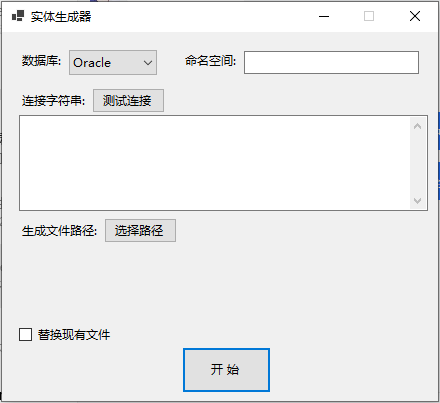
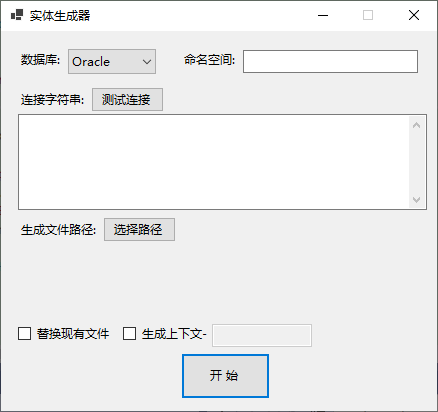
新增是否添加上下文功能

Changed region(s): [[0.0, 0.0, 1.0, 1.0], [0.4155, 0.1191, 0.5342, 0.1787], [0.6826, 0.7742, 0.7123, 0.804]]

diff --git a/CreateEntity/MainForm.cs b/CreateEntity/MainForm.cs
@@ -25,27 +25,39 @@ namespace CreateEntity
             Helper.nameSpace = NameSpace.Text.Trim();
             Helper.path = txtPath.Text.Trim();
             Helper.conStr = ConStr.Text.Trim();
+            Helper.DbContextName = textDbContext.Text.Trim();
 
+            #region 验证
             if (string.IsNullOrEmpty(Helper.nameSpace))
             {
-                MessageBox.Show("请填写命名空间", "实体生成器", MessageBoxButtons.OK, MessageBoxIcon.Information);
+                MessageBox.Show("请填写命名空间", Helper.lable, MessageBoxButtons.OK, MessageBoxIcon.Information);
                 return;
             }
             if (string.IsNullOrEmpty(Helper.path))
             {
-                MessageBox.Show("请填写连接字符串", "实体生成器", MessageBoxButtons.OK, MessageBoxIcon.Information);
+                MessageBox.Show("请填写连接字符串", Helper.lable, MessageBoxButtons.OK, MessageBoxIcon.Information);
                 return;
             }
             if (string.IsNullOrEmpty(Helper.conStr))
             {
-                MessageBox.Show("请选择生成路径", "实体生成器", MessageBoxButtons.OK, MessageBoxIcon.Information);
+                MessageBox.Show("请选择生成路径", Helper.lable, MessageBoxButtons.OK, MessageBoxIcon.Information);
                 return;
             }
-
+            if (string.IsNullOrEmpty(Helper.conStr))
+            {
+                MessageBox.Show("请选择生成路径", Helper.lable, MessageBoxButtons.OK, MessageBoxIcon.Information);
+                return;
+            }
+            if (Helper.IsDbContext && string.IsNullOrEmpty(Helper.DbContextName))
+            {
+                MessageBox.Show("请输入上下文名称", Helper.lable, MessageBoxButtons.OK, MessageBoxIcon.Information);
+                return;
+            }
             if (!testCon())
             {
                 return;
             }
+            #endregion
 
             //隐藏自己
             Hide();
@@ -79,7 +91,7 @@ namespace CreateEntity
             catch (Exception e)
             {
                 ok = false;
-                MessageBox.Show("连接超时，" + e.Message, "实体生成器", MessageBoxButtons.OK, MessageBoxIcon.Error);
+                MessageBox.Show("连接超时，" + e.Message, Helper.lable, MessageBoxButtons.OK, MessageBoxIcon.Error);
             }
             return ok;
         }
@@ -89,7 +101,7 @@ namespace CreateEntity
             Helper.conStr = ConStr.Text.Trim();
             if (testCon())
             {
-                MessageBox.Show("测试连接成功", "实体生成器", MessageBoxButtons.OK, MessageBoxIcon.Information);
+                MessageBox.Show("测试连接成功", Helper.lable, MessageBoxButtons.OK, MessageBoxIcon.Information);
             }
         }
 
@@ -108,6 +120,12 @@ namespace CreateEntity
         private void checkReplace_CheckedChanged(object sender, EventArgs e)
         {
             Helper.IsReplace = checkReplace.Checked;
+        }
+
+        private void checkDbContext_CheckedChanged(object sender, EventArgs e)
+        {
+            Helper.IsDbContext = checkDbContext.Checked;
+            textDbContext.Enabled= checkDbContext.Checked;
         }
     }
 }

diff --git a/CreateEntity/MainForm.Designer.cs b/CreateEntity/MainForm.Designer.cs
@@ -41,11 +41,13 @@ namespace CreateEntity
             this.lable4 = new System.Windows.Forms.Label();
             this.NameSpace = new System.Windows.Forms.TextBox();
             this.checkReplace = new System.Windows.Forms.CheckBox();
+            this.checkDbContext = new System.Windows.Forms.CheckBox();
+            this.textDbContext = new System.Windows.Forms.TextBox();
             this.SuspendLayout();
             // 
             // button1
             // 
-            this.button1.Location = new System.Drawing.Point(180, 315);
+            this.button1.Location = new System.Drawing.Point(180, 322);
             this.button1.Margin = new System.Windows.Forms.Padding(2, 3, 2, 3);
             this.button1.Name = "button1";
             this.button1.Size = new System.Drawing.Size(89, 46);
@@ -167,11 +169,32 @@ namespace CreateEntity
             this.checkReplace.UseVisualStyleBackColor = true;
             this.checkReplace.CheckedChanged += new System.EventHandler(this.checkReplace_CheckedChanged);
             // 
+            // checkDbContext
+            // 
+            this.checkDbContext.AutoSize = true;
+            this.checkDbContext.Location = new System.Drawing.Point(122, 293);
+            this.checkDbContext.Name = "checkDbContext";
+            this.checkDbContext.Size = new System.Drawing.Size(92, 21);
+            this.checkDbContext.TabIndex = 14;
+            this.checkDbContext.Text = "生成上下文-";
+            this.checkDbContext.UseVisualStyleBackColor = true;
+            this.checkDbContext.CheckedChanged += new System.EventHandler(this.checkDbContext_CheckedChanged);
+            // 
+            // textDbContext
+            // 
+            this.textDbContext.Enabled = false;
+            this.textDbContext.Location = new System.Drawing.Point(211, 293);
+            this.textDbContext.Name = "textDbContext";
+            this.textDbContext.Size = new System.Drawing.Size(100, 23);
+            this.textDbContext.TabIndex = 15;
+            // 
             // MainForm
             // 
             this.AutoScaleDimensions = new System.Drawing.SizeF(7F, 17F);
             this.AutoScaleMode = System.Windows.Forms.AutoScaleMode.Font;
-            this.ClientSize = new System.Drawing.Size(436, 369);
+            this.ClientSize = new System.Drawing.Size(436, 380);
+            this.Controls.Add(this.textDbContext);
+            this.Controls.Add(this.checkDbContext);
             this.Controls.Add(this.checkReplace);
             this.Controls.Add(this.NameSpace);
             this.Controls.Add(this.lable4);
@@ -210,6 +233,8 @@ namespace CreateEntity
         private System.Windows.Forms.Label lable4;
         private System.Windows.Forms.TextBox NameSpace;
         private System.Windows.Forms.CheckBox checkReplace;
+        private System.Windows.Forms.CheckBox checkDbContext;
+        private System.Windows.Forms.TextBox textDbContext;
     }
 }
 

diff --git a/CreateEntity/EntityFactory.cs b/CreateEntity/EntityFactory.cs
@@ -41,7 +41,7 @@ namespace CreateEntity
             using (DbConnection conn = Helper.GetDbConnection())
             {
                 conn.Open();
-                List<Table> tables = db.GetTableAll(conn);
+                List<Table> tables = db.GetTableAll(conn).OrderBy(i => i.CSharpName).ToList();
 
                 pgb.Maximum = tables.Count();
                 for (int i = 0; i < tables.Count(); i++)
@@ -49,14 +49,22 @@ namespace CreateEntity
                     token.ThrowIfCancellationRequested();//申请取消
 
                     if (Helper.IsReplace||
-                        filesName.FindIndex(f => f.Equals(tables[i].CSharpName + ".cs")) == -1)
+                        filesName.FindIndex(f => f==(tables[i].CSharpName + ".cs").ToLower()) == -1)
                     {
-                        List<TableColumn> tableColumn = db.GetTableColumn(conn, tables[i]);
+                        List<TableColumn> tableColumn = db.GetTableColumn(conn, tables[i])
+                                                          .OrderBy(o => o.ConstraintType)
+                                                          .ThenBy(o => o.CSharpName)
+                                                          .ToList();
                         CodeGenerator.BuildEntityClass(tables[i], tableColumn);
                     }
 
                     //汇报进度
                     pgb.Value = i + 1;
+                }
+                //生成上下文
+                if (Helper.IsDbContext)
+                {
+                    CodeGenerator.BuildEFCoreDbContext(tables);
                 }
             }
         }
@@ -76,7 +84,7 @@ namespace CreateEntity
                 FileInfo[] files = infos.GetFiles();
                 foreach(var file in files)
                 {
-                    filesName.Add(file.Name);
+                    filesName.Add(file.Name.ToLower());
                 }
             }
         }

diff --git a/CreateEntity/CodeGenerator.cs b/CreateEntity/CodeGenerator.cs
@@ -89,10 +89,10 @@ namespace CreateEntity
 
             string content = GetTemplateContext("EntityTemplate.txt");
             
-            content = content.Replace("{ModelsNamespace}", Helper.nameSpace)
-               .Replace("{ModelClassName}", table.CSharpName)
-               .Replace("{DbTableName}", table.Name)
-               .Replace("{ModelProperties}", sb.ToString());
+            content = content.Replace("{Namespace}", Helper.nameSpace)
+               .Replace("{ClassName}", table.CSharpName)
+               .Replace("{TableName}", table.Name)
+               .Replace("{Properties}", sb.ToString());
 
             string path = Helper.path + "\\" + table.CSharpName + ".cs";
             WriteAndSave(path, content);
@@ -107,17 +107,17 @@ namespace CreateEntity
             StringBuilder sb = new StringBuilder();
             foreach(var table in tables)
             {
-                string name = table.CSharpName;
-                sb.AppendLine($"\t\tpublic virtual DbSet<{name}> {name} " + "{ get; set; }");
+                sb.AppendLine($"\t\tpublic virtual DbSet<{table.CSharpName}> {table.CSharpName} " + "{ get; set; }");
             }
 
             string content = GetTemplateContext("EFCoreDbContext.txt");
 
             content = content.Replace("{Namespace}", Helper.nameSpace)
-               .Replace("{ClassName}", "")
+               .Replace("{ClassName}", Helper.DbContextName)
+               .Replace("{ConStr}", $"optionsBuilder.Use{Helper.dbType}(\"{Helper.conStr}\");")
                .Replace("{Tables}", sb.ToString());
 
-            string path = Helper.path + "\\" + "" + ".cs";
+            string path = Helper.path + $"\\{Helper.DbContextName}.cs";
             WriteAndSave(path, content);
         }
 

diff --git a/CreateEntity/Helper.cs b/CreateEntity/Helper.cs
@@ -8,6 +8,7 @@ namespace CreateEntity
 {
     public static class Helper
     {
+        public const string lable = "实体生成器";
         public static DataBaseType dbType;
         public static string nameSpace;
         public static string path;
@@ -16,6 +17,11 @@ namespace CreateEntity
         /// 是否替换现有文件,true替换,false不替换
         /// </summary>
         public static bool IsReplace = false;
+        /// <summary>
+        /// 是否生成上下文,true生成,false不生成
+        /// </summary>
+        public static bool IsDbContext = false;
+        public static string DbContextName;
 
         /// <summary>
         /// 将首字母和带 _ 后第一个字母 转换成大写
@@ -36,9 +42,7 @@ namespace CreateEntity
             }
             else
             {
-                //Oracle命名默认全部大写，与SqlServer不同
-                char[] chr = dbType == DataBaseType.SqlServer? str.ToCharArray()
-                                                              :str.ToLower().ToCharArray();
+                char[] chr = str.ToLower().ToCharArray();
                 if (chr[0] >= 'a' && chr[0] <= 'z')
                 {
                     // 利用ASCII码实现首字母大写

diff --git a/CreateEntity/DataBase/SqlServer.cs b/CreateEntity/DataBase/SqlServer.cs
@@ -55,8 +55,7 @@ namespace CreateEntity.DataBase
                                             left join syscomments e on a.cdefault=e.id
                                             left join sys.extended_properties g on a.id=G.major_id and a.colid=g.minor_id  
                                             left join sys.extended_properties f on d.id=f.major_id and f.minor_id=0
-                                            where d.name='{table.Name}'
-                                            order by 主键 desc", (SqlConnection)conn);
+                                            where d.name='{table.Name}'", (SqlConnection)conn);
             using SqlDataReader reder = com.ExecuteReader();
 
             List<TableColumn> tableColumn = new List<TableColumn>();

diff --git a/CreateEntity/ProgressForm.cs b/CreateEntity/ProgressForm.cs
@@ -31,11 +31,10 @@ namespace CreateEntity
             }
             catch (OperationCanceledException)
             {
-                Close();
             }
             catch (Exception ex)
             {
-                MessageBox.Show(ex.Message, "实体生成器", MessageBoxButtons.OK, MessageBoxIcon.Error);
+                MessageBox.Show(ex.Message, Helper.lable, MessageBoxButtons.OK, MessageBoxIcon.Error);
                 Close();
             }
         }
@@ -44,6 +43,7 @@ namespace CreateEntity
         {
             if (_factory != null)
                 _factory.Cancel();
+            Close();
         }
         private void button2_Click(object sender, EventArgs e)
         {

diff --git a/README.md b/README.md
@@ -3,10 +3,13 @@
 ## 写在前面
 以前公司的orm框架用的是十分冷门的NPoco，而且作为业务驱动型公司，你懂的，新加表，表加字段，是家常便饭，这就非常麻烦，新加个表要在代码里加实体类，加TableMapping，建provider类，在DbContext里建字段，建属性，等等！忍受了2个月，跟老大商量以后，开始把项目升级为.net core，orm用EFCore。  
   
-EFCore本身自带生成实体类功能，教程参考[这里](https://www.cnblogs.com/gaoxiong666/p/15018956.html)。由于生成出来的实体是在Context类OnModelCreating方法里加映射，表多的话代码会巨多，而且实体字段没有注释，我更喜欢用特性约束，且加注释，于是本生成器诞生，是我喜欢的模样。
+EFCore本身自带生成实体类功能，教程参考[这里](https://www.cnblogs.com/gaoxiong666/p/15018956.html)。由于生成出来的实体是在Context类OnModelCreating方法里加映射，表多的话代码会巨多，而且实体字段没有注释，DbSet变量名总是在后面加s复数形式，我更喜欢用特性约束，且加注释，于是本生成器诞生，是我喜欢的模样。  
+  
+注：EFCore的生成有分词功能，这个还没有实现，目前还是干巴巴的首字母大写和遇下划线后的首字母大写
 ## 效果展示
 ![image](https://github.com/GaoXiong666/CreateEntity/blob/main/Image/123.png)
 ## 更新日志
-2021.07.09--实现了Oracle数据库的实体类生成  
-2021.10.10--实现了SqlServer数据库的实体类生成  
-2021.10.13--添加是否替换现有文件功能  
+2021.07.09--新增Oracle数据库的实体类生成  
+2021.10.10--新增SqlServer数据库的实体类生成  
+2021.10.13--新增是否替换现有文件功能  
+2021.10.14--新增是否添加上下文功能
